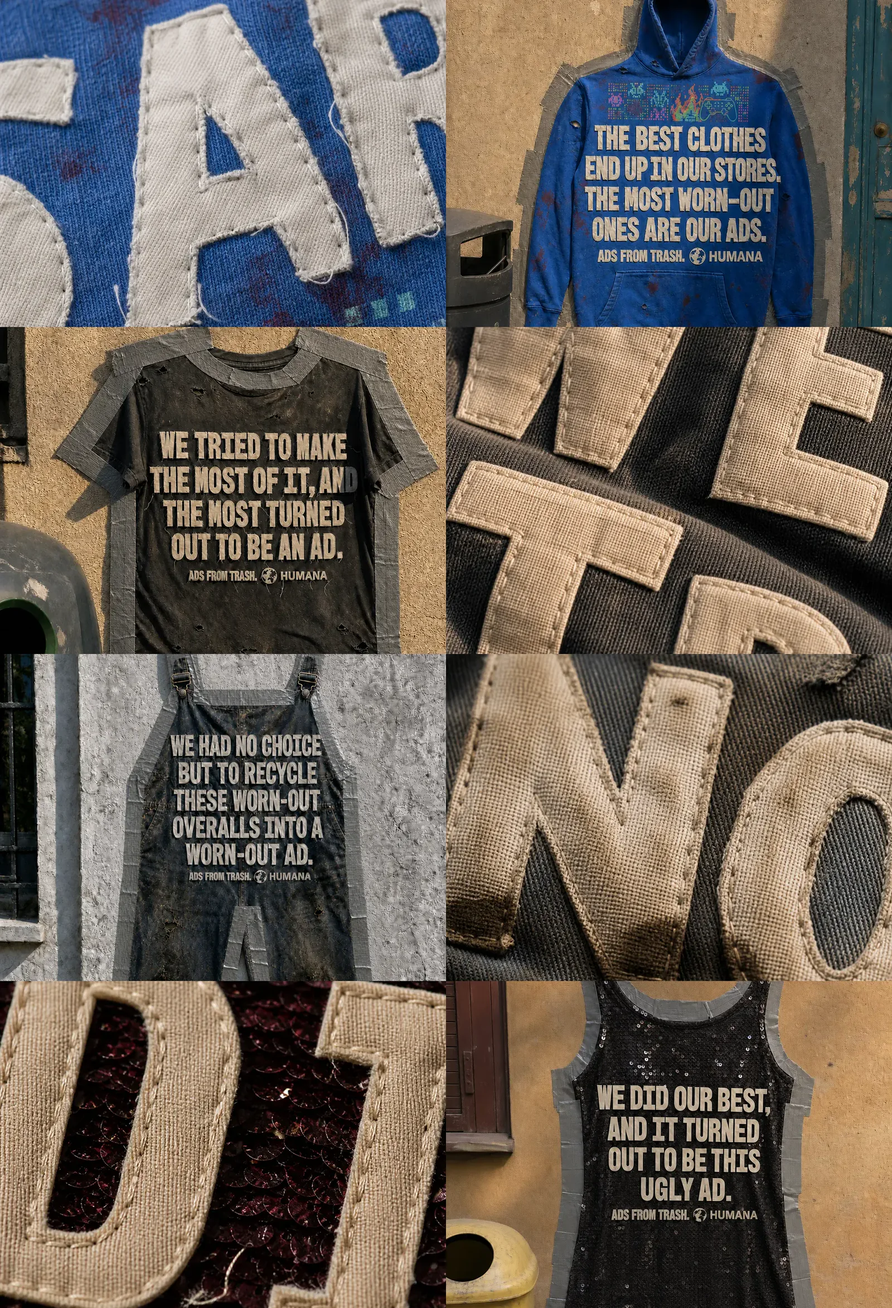
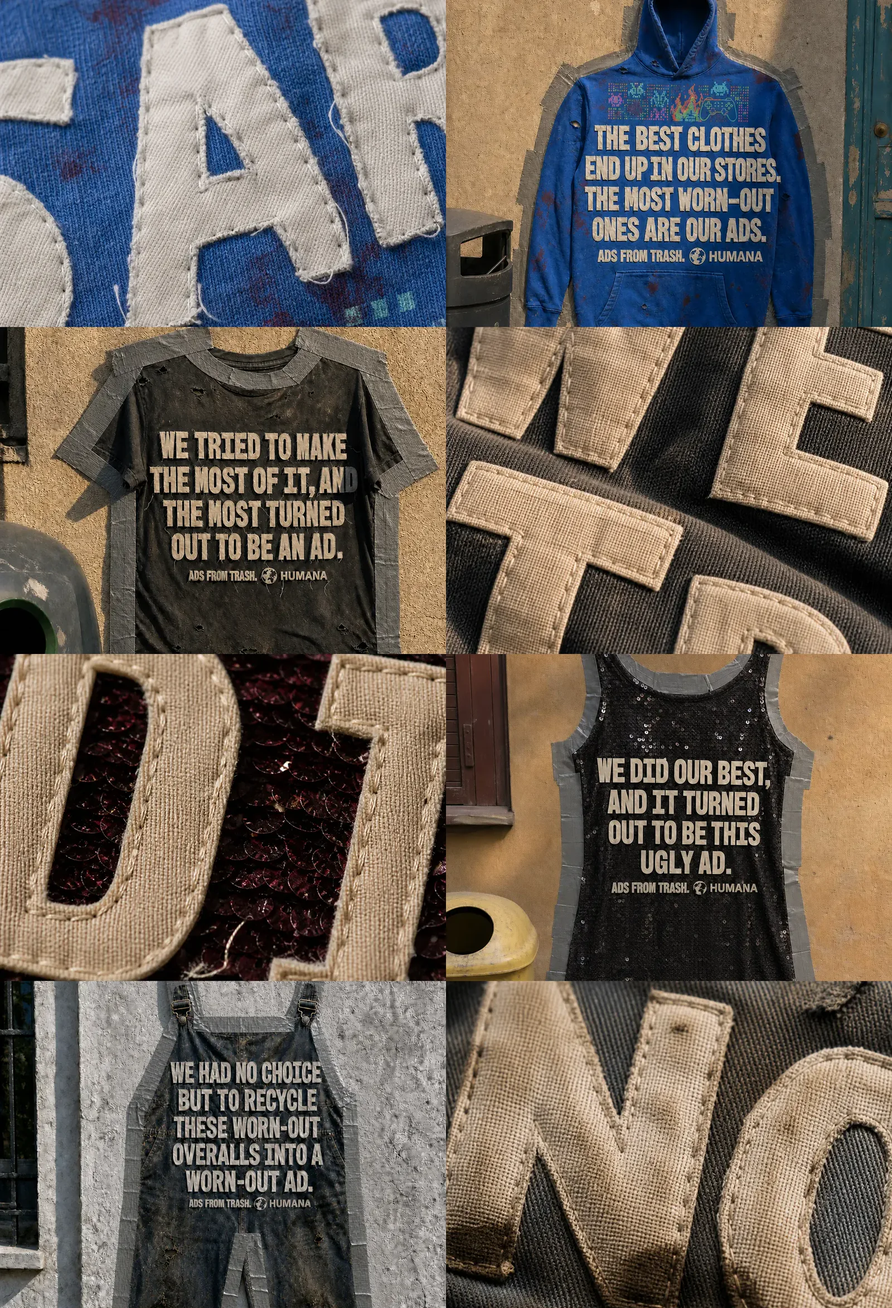
Ads from Trash con las dos ultimas filas intercambiadas, y una linea que salta la bio a quien ya la leyo

diff --git a/index.html b/index.html
@@ -346,12 +346,40 @@
   /* It arrives the way everything at the foot arrives — brought up on
      opacity, not switched on. Kept in the row while it is invisible so the
      row does not jump, and deaf to the pointer until it is really there. */
+  /* Both things that live at the right of the row are wrapped together and the
+     wrapper takes the auto margin. Given one each, the free space is split
+     between them and neither ends on the rule. */
+  /* The arrow and the line never show at once, and neither may take room from
+     the other: side by side in the flow, the invisible one still had its width
+     and pushed the visible one a hundred and twenty pixels short of the rule.
+     They are stacked on the same point instead — the end of the row, which is
+     the end of the rule — so whichever is showing ends exactly there. */
+  .marks-end{
+    margin-left:auto;position:relative;
+    height:2rem;display:flex;align-items:center;
+  }
+  .marks-end > *{position:absolute;right:0;top:50%;transform:translateY(-50%)}
   #back{
-    margin-left:auto;
     opacity:0;pointer-events:none;
     transition:opacity .5s ease-out;
   }
   footer.in-camp #back{opacity:1;pointer-events:auto}
+
+  /* Said once you have been here before. Set exactly as the line beside the
+     mark is — same face, same size, same colour, same weight of grey — because
+     it is the same voice speaking, just from the other end of the row. It ends
+     on the rule, like everything else at that edge, and it is brought up on
+     opacity as the bio starts being written rather than switched on. */
+  .knew{
+    font-size:.875rem;color:var(--chrome);
+    letter-spacing:.02em;white-space:nowrap;
+    opacity:0;transition:opacity .6s ease-out;
+    cursor:pointer;pointer-events:none;
+  }
+  footer.knew-on .knew{pointer-events:auto}
+  footer.knew-on .knew:hover{opacity:.8}
+  @media (min-width:64rem){ .knew{font-size:1rem} }
+  footer.knew-on .knew{opacity:.55}
 
   /* You arrive at a blank page with a sentence being written on it. Only once
      that has landed does the rest of the furniture turn up — the prompt, the
@@ -858,7 +886,10 @@
   <div class="marks">
     <button class="ring-button" id="ring" aria-label="Another"><span class="ring"></span></button>
     <button class="ring-button" id="leaf" aria-label="A photograph, and what it turned into"><span class="ring box"></span></button>
-    <button class="ring-button" id="back" aria-label="Back to the work"><span class="ring arrow"></span></button>
+    <span class="marks-end">
+      <button class="ring-button" id="back" aria-label="Back to the work"><span class="ring arrow"></span></button>
+      <span class="knew" id="knew">i already know you</span>
+    </span>
   </div>
   <div class="rule"></div>
   <div class="bar">
@@ -1335,6 +1366,10 @@
     // flag goes on the footer rather than on main, because the foot of the
     // page is not inside it.
     footer.classList.toggle("in-camp", view === "campaign");
+    // The line at the far end belongs to the bio and to nowhere else, and only
+    // once you have been there before. Set here rather than where the bio is
+    // built, so that leaving takes it away as surely as arriving brings it.
+    footer.classList.toggle("knew-on", view === "about" && aboutOpened > 1);
     // The line over the circle belongs to the opening screen and to nowhere
     // else. Leave the home page — for work, for a campaign, for the bio — and
     // it goes, whether or not the circle has been pressed yet.
@@ -1448,8 +1483,15 @@
     node.classList.add("on");
   };
 
+  // How many times the bio has been opened in this visit. The line at the foot
+  // is for somebody who has read it and come back — so it waits for the second
+  // time and every time after, and it is forgotten when the page is.
+  let aboutOpened = 0;
+  let bioNode = null, bioStarted = 0;   // what is being written, and since when
+
   const showAbout = () => {
     view = "about";
+    aboutOpened++;
     sync();
     const p = document.createElement("div");
     p.className = "prose bio";
@@ -1464,6 +1506,8 @@
     cv.textContent = "C.V.";
     stage.replaceChildren(p, cv);
     typeBlocks(p, ABOUT.split("\n\n"), ABOUT_PER);
+    bioNode = p;
+    bioStarted = performance.now();
     ringWhileWriting([...ABOUT].length, ABOUT_PER);
     fitBio();
     setTimeout(() => {
@@ -1599,6 +1643,7 @@
       return Math.round(guess) + GAP;
     });
     steps.forEach((s, i) => { s.style.height = heights[i] + "px"; });
+
     // The first and last rows each have to be able to sit in the middle, and
     // they are not the same height, so they do not get the same padding.
     const padTop = Math.max(0, Math.round((H - heights[0]) / 2));
@@ -2432,6 +2477,34 @@
   // The arrow ends where the rule ends. Both the row of marks and the rule
   // run the full width of the foot, so the auto margin in the stylesheet puts
   // its right edge on the end of the line with nothing measured here.
+
+  // Somebody who has read this before does not need to watch it being written
+  // again. Pressing the line runs the rest of it out at once — it goes nowhere
+  // and changes nothing else — and then the line takes itself away, having
+  // said the only thing it had to say.
+  //
+  // The writing is played by the compositor, one animation per character with
+  // its own delay, so the way to hurry it is to rewrite those delays. Only the
+  // ones still to come: a character already inked would restart its animation
+  // and blink. Which those are is worked out from the clock rather than read
+  // off the page — the step between characters is known, and so is the moment
+  // the writing began.
+  // The rest of the piece runs out inside this, however much of it is left —
+  // a fixed step per character was still two and a half seconds with six
+  // hundred to go, which is not "quickly", it is just less slowly.
+  const RUSH_MS = 420;
+  document.getElementById("knew").addEventListener("click", () => {
+    footer.classList.remove("knew-on");
+    if (!bioNode) return;
+    const chars = [...bioNode.querySelectorAll(".ch")];
+    const done = Math.max(0, Math.floor((performance.now() - bioStarted) / ABOUT_PER));
+    const left = chars.length - done;
+    const step = left > 0 ? RUSH_MS / left : 0;
+    chars.forEach((c, i) => {
+      if (i <= done) return;            // already landed; leave it alone
+      c.style.animationDelay = ((i - done) * step) + "ms";
+    });
+  });
 
   // The mark is the way home. It answers from every view, including from
   // inside a campaign — which is the one place with a picture possibly still
